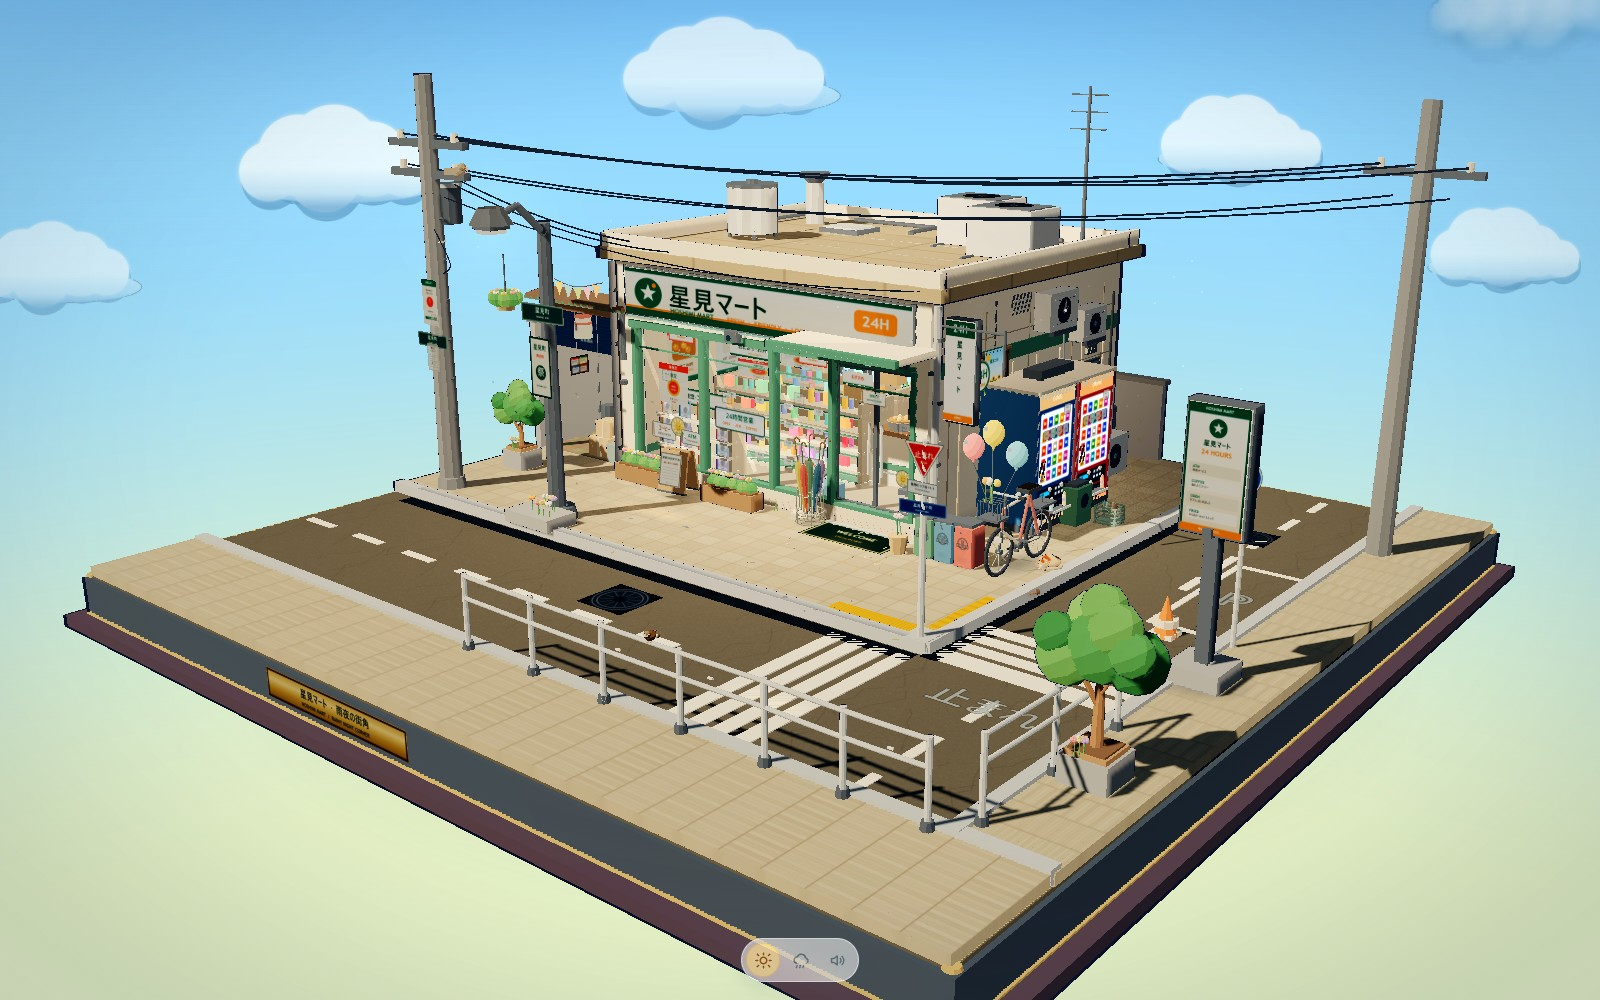
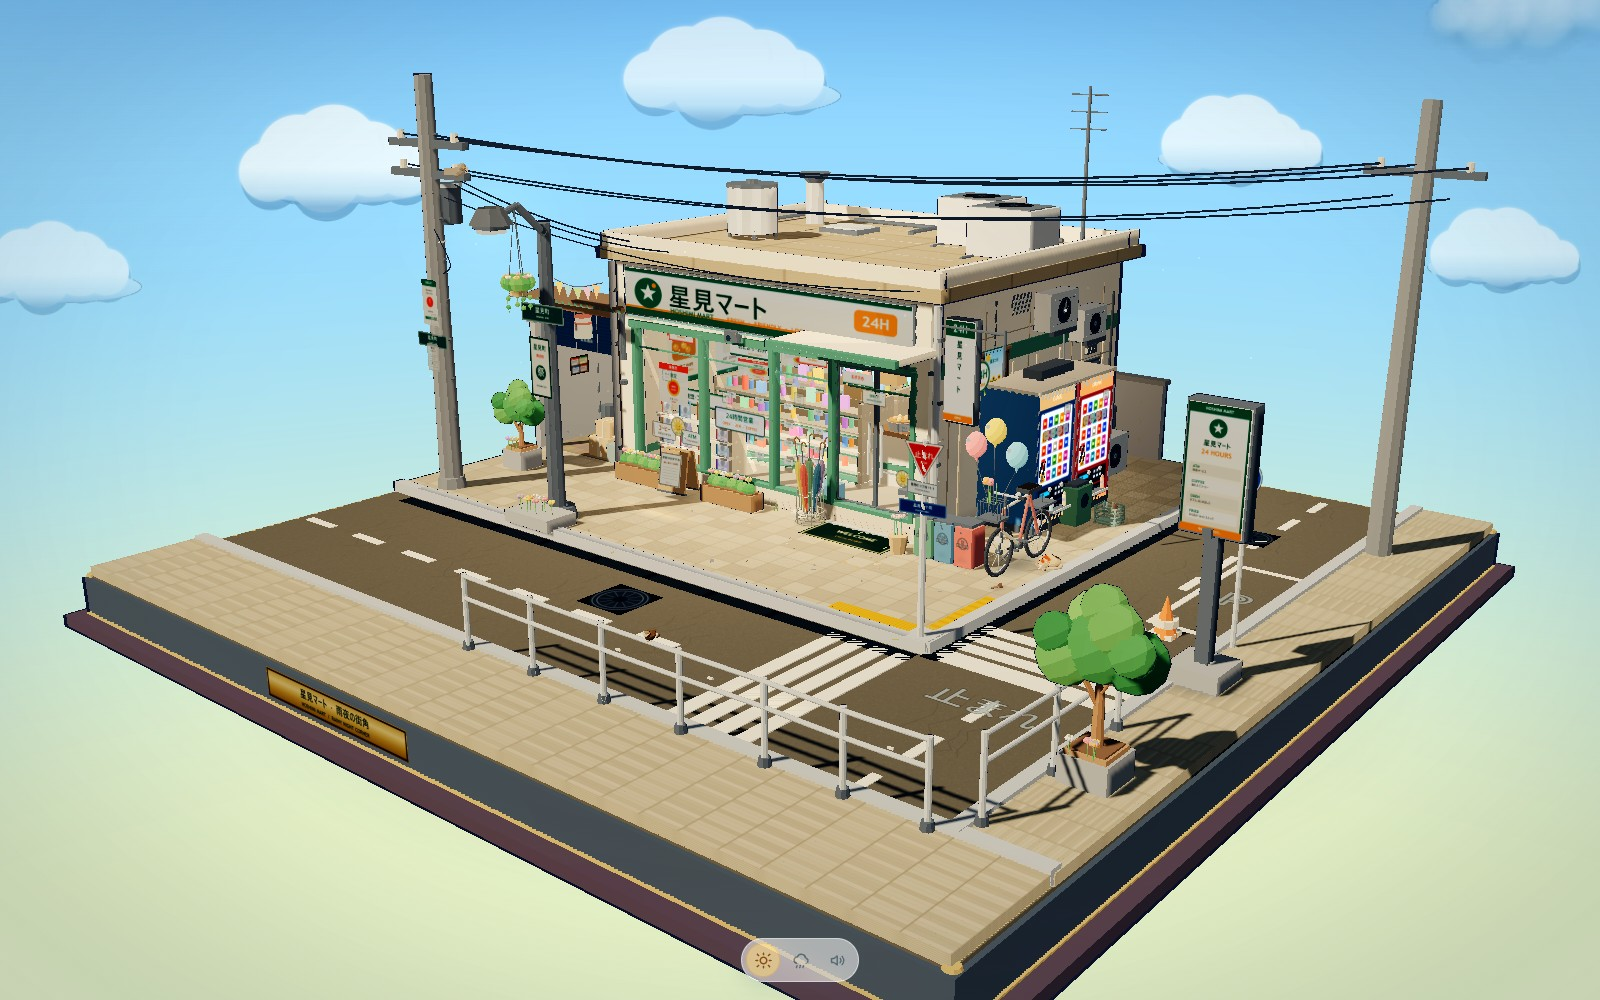
Fix floating hanging basket and misplaced glove

diff --git a/index.html b/index.html
@@ -6400,15 +6400,68 @@ const greeneryKit = kit('60-街角绿植', 0, { fromY: 0, scaleFrom: 1 });
   for (let i = 0; i < 8; i++) {
     addFlower(greeneryKit, -3.68 + rand(-0.34, 0.34), SIDEWALK_TOP + 0.18, 1.85 + rand(-0.16, 0.16), i, 0.8);
   }
-  // hanging flower basket on the lamp arm
+  // Hanging flower basket, actually suspended from the lamp arm with three
+  // thin hanger wires. It hangs beside the lamp head rather than floating
+  // directly under the light.
   const hx = -3.68;
-  const hz = 2.25;
-  cylinder(greeneryKit, M.metalDark, 0.012, 0.012, 0.55, hx, 3.78, hz, { seg: 5, cast: false });
-  cylinder(greeneryKit, M.cardboard, 0.16, 0.12, 0.22, hx, 3.42, hz, { seg: 12, outline: 0.01 });
+  const hz = 2.02;
+  const hookY = SIDEWALK_TOP + 4.5;
+  const basketY = SIDEWALK_TOP + 3.42;
+  const hook = new THREE.Mesh(new THREE.TorusGeometry(0.026, 0.005, 5, 12), M.metalDark);
+  hook.position.set(hx, hookY, hz);
+  hook.rotation.x = Math.PI / 2;
+  greeneryKit.add(hook);
+  for (let i = 0; i < 3; i++) {
+    const a = (i / 3) * TAU;
+    barBetween(
+      greeneryKit,
+      M.metalDark,
+      [hx, hookY, hz],
+      [hx + Math.cos(a) * 0.12, basketY + 0.12, hz + Math.sin(a) * 0.12],
+      0.0055
+    );
+  }
+  cylinder(greeneryKit, M.cardboard, 0.155, 0.115, 0.22, hx, basketY, hz, { seg: 12, outline: 0.01 });
+  // A readable wire basket frame around the coco liner.
+  [0.11, -0.11].forEach((dy, ringIndex) => {
+    const ring = new THREE.Mesh(
+      new THREE.TorusGeometry(ringIndex === 0 ? 0.165 : 0.12, 0.006, 5, 18),
+      M.metalDark
+    );
+    ring.rotation.x = Math.PI / 2;
+    ring.position.set(hx, basketY + dy, hz);
+    greeneryKit.add(ring);
+  });
+  for (let i = 0; i < 10; i++) {
+    const a = (i / 10) * TAU;
+    barBetween(
+      greeneryKit,
+      M.metalDark,
+      [hx + Math.cos(a) * 0.165, basketY + 0.11, hz + Math.sin(a) * 0.165],
+      [hx + Math.cos(a) * 0.12, basketY - 0.11, hz + Math.sin(a) * 0.12],
+      0.004
+    );
+  }
   for (let i = 0; i < 8; i++) {
     const a = (i / 8) * TAU;
-    sphere(greeneryKit, LEAF_MATS[i % 2], 0.11, hx + Math.cos(a) * 0.13, 3.47, hz + Math.sin(a) * 0.13, { seg: 6 });
-    addFlower(greeneryKit, hx + Math.cos(a) * 0.16, 3.4, hz + Math.sin(a) * 0.16, i, 0.65);
+    sphere(greeneryKit, LEAF_MATS[i % 2], 0.11, hx + Math.cos(a) * 0.13, basketY + 0.07, hz + Math.sin(a) * 0.13, { seg: 6 });
+    addFlower(greeneryKit, hx + Math.cos(a) * 0.16, basketY + 0.0, hz + Math.sin(a) * 0.16, i, 0.65);
+  }
+  // A few trailing vines soften the silhouette below the basket.
+  for (let i = 0; i < 4; i++) {
+    const a = i * 1.7 + 0.3;
+    const vine = new THREE.Mesh(
+      new THREE.TubeGeometry(new THREE.CatmullRomCurve3([
+        new THREE.Vector3(hx + Math.cos(a) * 0.13, basketY - 0.06, hz + Math.sin(a) * 0.13),
+        new THREE.Vector3(hx + Math.cos(a) * 0.16, basketY - 0.2, hz + Math.sin(a) * 0.16),
+        new THREE.Vector3(hx + Math.cos(a) * 0.14, basketY - 0.34, hz + Math.sin(a) * 0.14),
+      ]), 8, 0.004, 4, false),
+      toon(0x4d7d43, { soft: true })
+    );
+    greeneryKit.add(vine);
+    for (let leaf = 0; leaf < 2; leaf++) {
+      sphere(greeneryKit, LEAF_MATS[(i + leaf) % 2], 0.035, hx + Math.cos(a) * 0.15, basketY - 0.14 - leaf * 0.12, hz + Math.sin(a) * 0.15, { seg: 5, cast: false });
+    }
   }
 }
 
@@ -10339,7 +10392,7 @@ detailCommon.add(paperStack);
   contactShadow(detailCommon, -1.0, -0.84, 0.38, 0.42, 0.2, SIDEWALK_TOP + 0.006);
 }
 const droppedGlove = new THREE.Group();
-droppedGlove.position.set(3.3, SIDEWALK_TOP + 0.012, -0.2);
+droppedGlove.position.set(2.82, SIDEWALK_TOP + 0.012, -0.08);
 droppedGlove.rotation.set(0.12, -0.6, 0.3);
 detailCommon.add(droppedGlove);
 {
@@ -10365,7 +10418,7 @@ detailCommon.add(droppedGlove);
   cuff.rotation.x = Math.PI / 2;
   cuff.position.set(0, 0.015, -0.048);
   droppedGlove.add(cuff);
-  contactShadow(detailCommon, 3.3, -0.2, 0.24, 0.32, 0.16, SIDEWALK_TOP + 0.007);
+  contactShadow(detailCommon, 2.82, -0.08, 0.24, 0.32, 0.16, SIDEWALK_TOP + 0.007);
 }
 contactShadow(detailCommon, -3.95, -0.5, 0.95, 0.38, 0.18, SIDEWALK_TOP + 0.006);
 contactShadow(detailCommon, -2.1, -0.5, 0.95, 0.38, 0.18, SIDEWALK_TOP + 0.006);

diff --git a/src/main.js b/src/main.js
@@ -4212,15 +4212,68 @@ const greeneryKit = kit('60-街角绿植', 0, { fromY: 0, scaleFrom: 1 });
   for (let i = 0; i < 8; i++) {
     addFlower(greeneryKit, -3.68 + rand(-0.34, 0.34), SIDEWALK_TOP + 0.18, 1.85 + rand(-0.16, 0.16), i, 0.8);
   }
-  // hanging flower basket on the lamp arm
+  // Hanging flower basket, actually suspended from the lamp arm with three
+  // thin hanger wires. It hangs beside the lamp head rather than floating
+  // directly under the light.
   const hx = -3.68;
-  const hz = 2.25;
-  cylinder(greeneryKit, M.metalDark, 0.012, 0.012, 0.55, hx, 3.78, hz, { seg: 5, cast: false });
-  cylinder(greeneryKit, M.cardboard, 0.16, 0.12, 0.22, hx, 3.42, hz, { seg: 12, outline: 0.01 });
+  const hz = 2.02;
+  const hookY = SIDEWALK_TOP + 4.5;
+  const basketY = SIDEWALK_TOP + 3.42;
+  const hook = new THREE.Mesh(new THREE.TorusGeometry(0.026, 0.005, 5, 12), M.metalDark);
+  hook.position.set(hx, hookY, hz);
+  hook.rotation.x = Math.PI / 2;
+  greeneryKit.add(hook);
+  for (let i = 0; i < 3; i++) {
+    const a = (i / 3) * TAU;
+    barBetween(
+      greeneryKit,
+      M.metalDark,
+      [hx, hookY, hz],
+      [hx + Math.cos(a) * 0.12, basketY + 0.12, hz + Math.sin(a) * 0.12],
+      0.0055
+    );
+  }
+  cylinder(greeneryKit, M.cardboard, 0.155, 0.115, 0.22, hx, basketY, hz, { seg: 12, outline: 0.01 });
+  // A readable wire basket frame around the coco liner.
+  [0.11, -0.11].forEach((dy, ringIndex) => {
+    const ring = new THREE.Mesh(
+      new THREE.TorusGeometry(ringIndex === 0 ? 0.165 : 0.12, 0.006, 5, 18),
+      M.metalDark
+    );
+    ring.rotation.x = Math.PI / 2;
+    ring.position.set(hx, basketY + dy, hz);
+    greeneryKit.add(ring);
+  });
+  for (let i = 0; i < 10; i++) {
+    const a = (i / 10) * TAU;
+    barBetween(
+      greeneryKit,
+      M.metalDark,
+      [hx + Math.cos(a) * 0.165, basketY + 0.11, hz + Math.sin(a) * 0.165],
+      [hx + Math.cos(a) * 0.12, basketY - 0.11, hz + Math.sin(a) * 0.12],
+      0.004
+    );
+  }
   for (let i = 0; i < 8; i++) {
     const a = (i / 8) * TAU;
-    sphere(greeneryKit, LEAF_MATS[i % 2], 0.11, hx + Math.cos(a) * 0.13, 3.47, hz + Math.sin(a) * 0.13, { seg: 6 });
-    addFlower(greeneryKit, hx + Math.cos(a) * 0.16, 3.4, hz + Math.sin(a) * 0.16, i, 0.65);
+    sphere(greeneryKit, LEAF_MATS[i % 2], 0.11, hx + Math.cos(a) * 0.13, basketY + 0.07, hz + Math.sin(a) * 0.13, { seg: 6 });
+    addFlower(greeneryKit, hx + Math.cos(a) * 0.16, basketY + 0.0, hz + Math.sin(a) * 0.16, i, 0.65);
+  }
+  // A few trailing vines soften the silhouette below the basket.
+  for (let i = 0; i < 4; i++) {
+    const a = i * 1.7 + 0.3;
+    const vine = new THREE.Mesh(
+      new THREE.TubeGeometry(new THREE.CatmullRomCurve3([
+        new THREE.Vector3(hx + Math.cos(a) * 0.13, basketY - 0.06, hz + Math.sin(a) * 0.13),
+        new THREE.Vector3(hx + Math.cos(a) * 0.16, basketY - 0.2, hz + Math.sin(a) * 0.16),
+        new THREE.Vector3(hx + Math.cos(a) * 0.14, basketY - 0.34, hz + Math.sin(a) * 0.14),
+      ]), 8, 0.004, 4, false),
+      toon(0x4d7d43, { soft: true })
+    );
+    greeneryKit.add(vine);
+    for (let leaf = 0; leaf < 2; leaf++) {
+      sphere(greeneryKit, LEAF_MATS[(i + leaf) % 2], 0.035, hx + Math.cos(a) * 0.15, basketY - 0.14 - leaf * 0.12, hz + Math.sin(a) * 0.15, { seg: 5, cast: false });
+    }
   }
 }
 
@@ -8151,7 +8204,7 @@ detailCommon.add(paperStack);
   contactShadow(detailCommon, -1.0, -0.84, 0.38, 0.42, 0.2, SIDEWALK_TOP + 0.006);
 }
 const droppedGlove = new THREE.Group();
-droppedGlove.position.set(3.3, SIDEWALK_TOP + 0.012, -0.2);
+droppedGlove.position.set(2.82, SIDEWALK_TOP + 0.012, -0.08);
 droppedGlove.rotation.set(0.12, -0.6, 0.3);
 detailCommon.add(droppedGlove);
 {
@@ -8177,7 +8230,7 @@ detailCommon.add(droppedGlove);
   cuff.rotation.x = Math.PI / 2;
   cuff.position.set(0, 0.015, -0.048);
   droppedGlove.add(cuff);
-  contactShadow(detailCommon, 3.3, -0.2, 0.24, 0.32, 0.16, SIDEWALK_TOP + 0.007);
+  contactShadow(detailCommon, 2.82, -0.08, 0.24, 0.32, 0.16, SIDEWALK_TOP + 0.007);
 }
 contactShadow(detailCommon, -3.95, -0.5, 0.95, 0.38, 0.18, SIDEWALK_TOP + 0.006);
 contactShadow(detailCommon, -2.1, -0.5, 0.95, 0.38, 0.18, SIDEWALK_TOP + 0.006);
